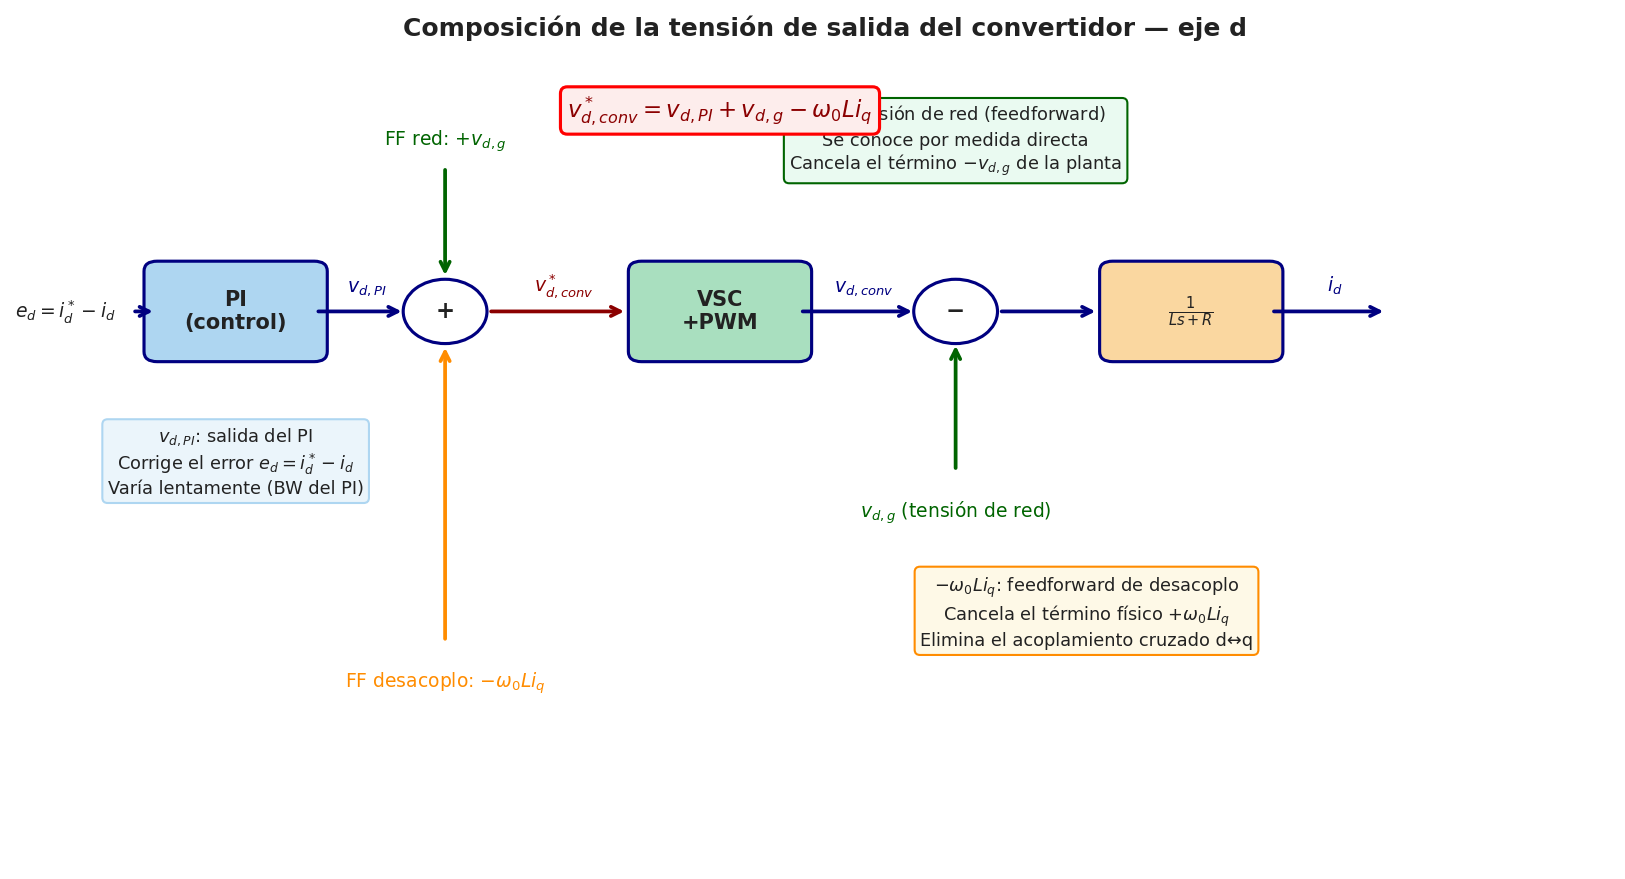
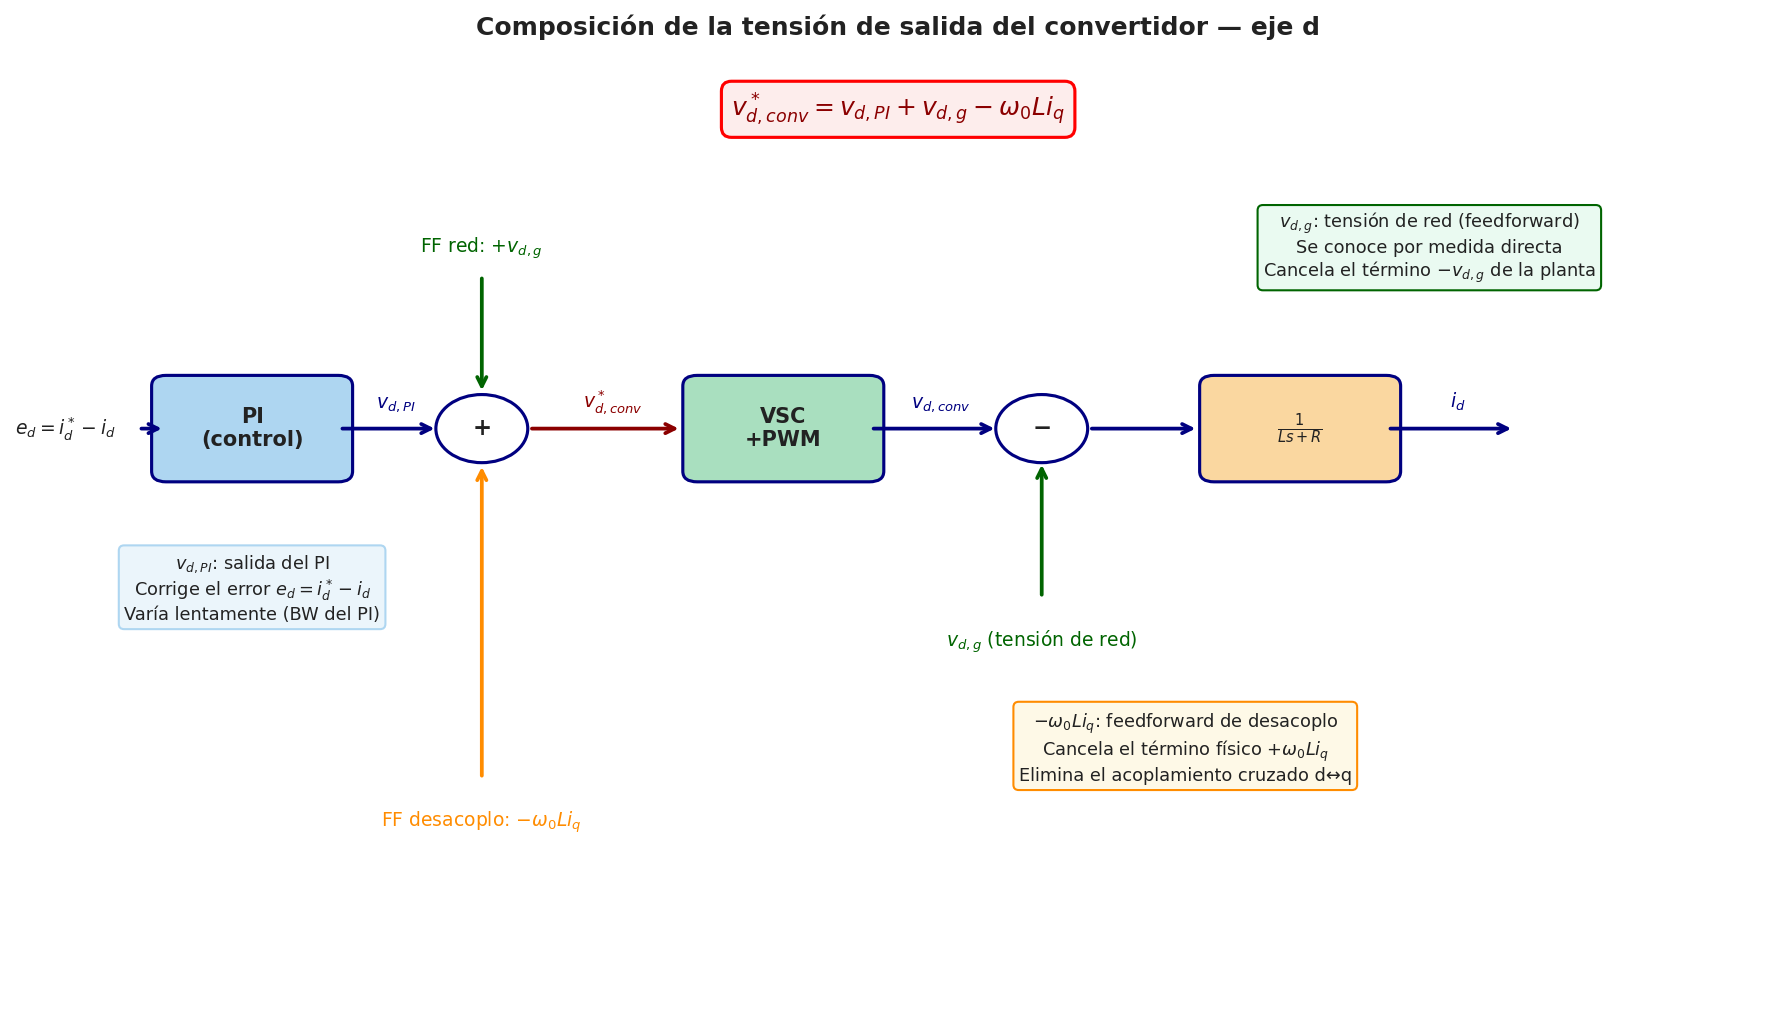
fix: corrige solapamiento de texto en la figura btb-tensiones-explicacion
La ecuacion roja se pisaba con la caja verde. Se pasa la ecuacion a banner
superior y la anotacion de v_dg a la derecha, ampliando el lienzo.

diff --git a/00 - Repositorio/gen_figuras.py b/00 - Repositorio/gen_figuras.py
@@ -14822,10 +14822,10 @@ def _btb_diagramas_bloques():
     _savefig(fig, "btb-diagramas-bloques")
 
     # --- Figura explicativa de tensiones ---
-    fig2, ax3 = plt.subplots(1, 1, figsize=(11, 6))
-    ax3.set_xlim(0, 12); ax3.set_ylim(0, 8); ax3.axis('off')
+    fig2, ax3 = plt.subplots(1, 1, figsize=(12, 7))
+    ax3.set_xlim(0, 12); ax3.set_ylim(0, 9); ax3.axis('off')
     ax3.set_title('Composición de la tensión de salida del convertidor — eje d',
-                  fontsize=12, fontweight='bold', pad=12)
+                  fontsize=12, fontweight='bold', pad=10)
 
     def bx(x, y, w, h, txt, col):
         ax3.add_patch(mpatches.FancyBboxPatch((x-w/2, y-h/2), w, h,
@@ -14884,7 +14884,7 @@ def _btb_diagramas_bloques():
              ha='center', va='center', fontsize=8.5,
              bbox=dict(boxstyle='round', facecolor='#EBF5FB', edgecolor='#AED6F1'))
 
-    ax3.text(7.0, 7.2,
+    ax3.text(9.7, 7.2,
              r'$v_{d,g}$: tensión de red (feedforward)'+'\n'
              r'Se conoce por medida directa'+'\n'
              r'Cancela el término $-v_{d,g}$ de la planta',
@@ -14898,10 +14898,10 @@ def _btb_diagramas_bloques():
              ha='center', va='center', fontsize=8.5,
              bbox=dict(boxstyle='round', facecolor='#FEF9E7', edgecolor='darkorange'))
 
-    ax3.text(5.2, 7.5,
+    ax3.text(6.0, 8.5,
              r'$v_{d,conv}^* = v_{d,PI} + v_{d,g} - \omega_0 L i_q$',
-             ha='center', va='center', fontsize=11, color='darkred', fontweight='bold',
-             bbox=dict(boxstyle='round', facecolor='#FDEDEC', edgecolor='red', lw=1.5))
+             ha='center', va='center', fontsize=12, color='darkred', fontweight='bold',
+             bbox=dict(boxstyle='round,pad=0.4', facecolor='#FDEDEC', edgecolor='red', lw=1.5))
 
     plt.tight_layout()
     _savefig(fig2, "btb-tensiones-explicacion")
